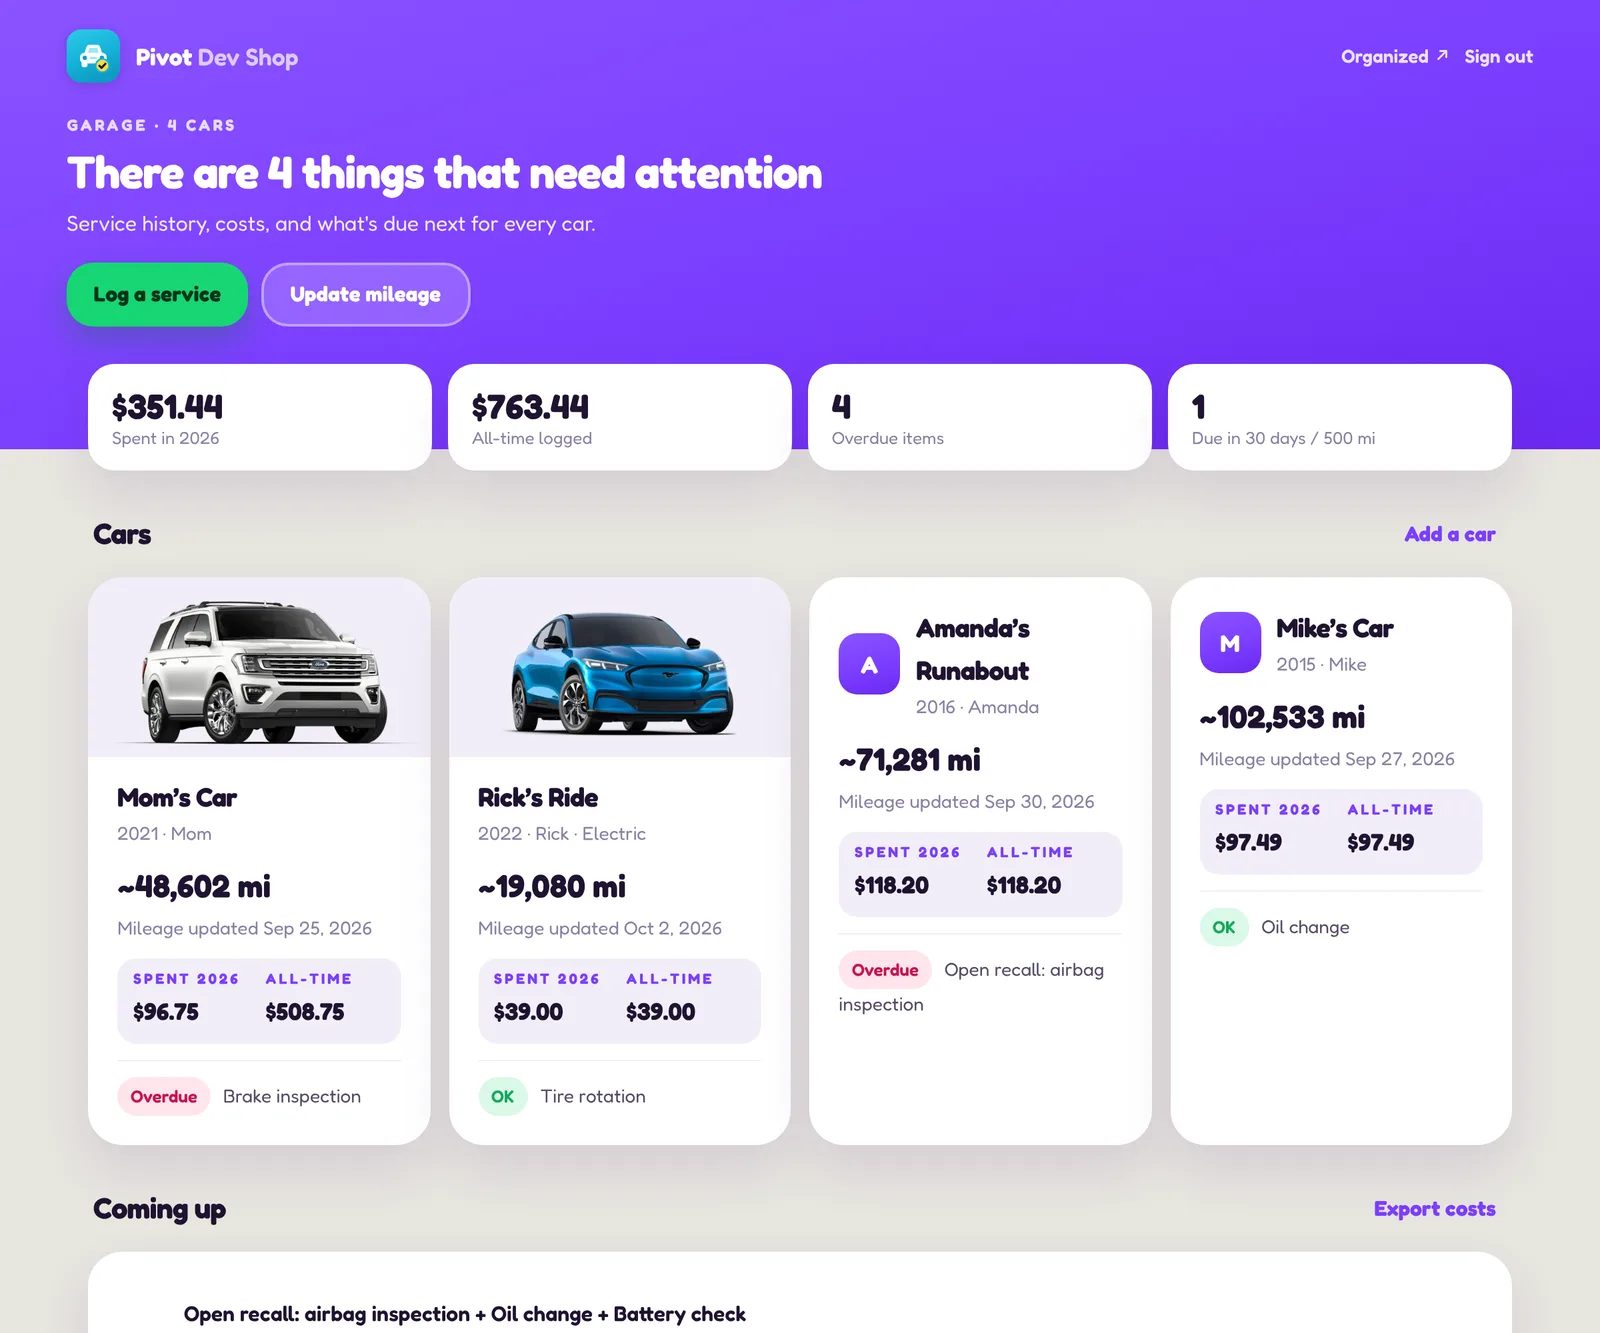
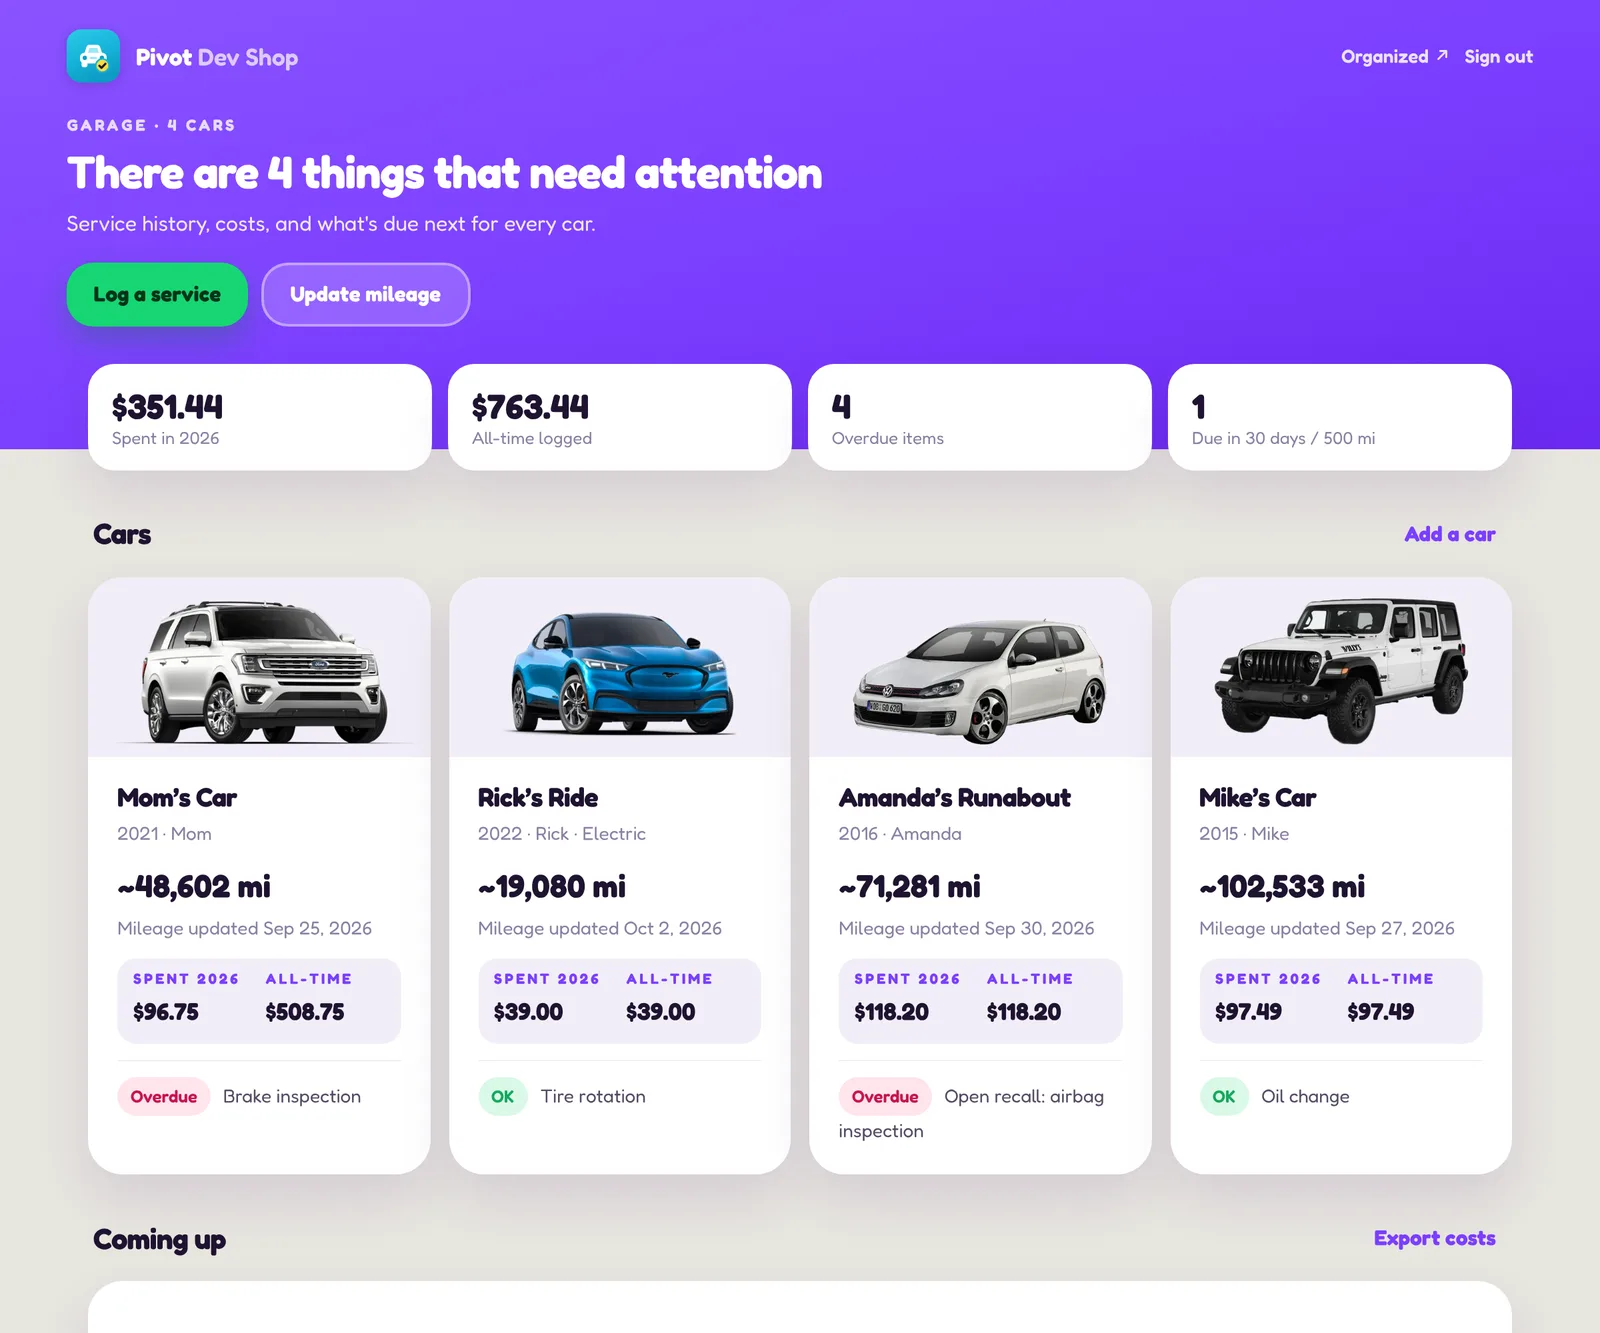
Garage page: add GTI and Wrangler photos to the example cars
Claude-Session: https://claude.ai/code/session_01TSc8yuq8NuKRMECWviNMfc

Changed region(s): [[0.0312, 0.7997, 0.9688, 1.0], [0.75, 0.4306, 0.9375, 0.7689], [0.5, 0.4614, 0.6875, 0.7689]]

diff --git a/public/garage.html b/public/garage.html
@@ -258,7 +258,7 @@
         <figcaption><strong>One car's reminders</strong>Every rule, when it was last done, and when it's next due — including an estimated date worked out from how much the car is driven.</figcaption>
       </figure>
       <figure class="shot wide">
-        <img src="/garage-media/home-desktop.webp" alt="Garage on a laptop: four example cars side by side — Mom’s Car and Rick’s Ride with photos of a Ford Expedition and a blue Mustang Mach-E — each showing mileage, spend this year and all-time, and the most urgent reminder, above a Coming up list." loading="lazy" width="1600" height="1333">
+        <img src="/garage-media/home-desktop.webp" alt="Garage on a laptop: four example cars side by side, each with a photo — a white Ford Expedition, a blue Mustang Mach-E, a white VW GTI and a white Jeep Wrangler — each showing mileage, spend this year and all-time, and the most urgent reminder, above a Coming up list." loading="lazy" width="1600" height="1333">
         <figcaption><strong>On a laptop</strong>The same app, wider: all four cars side by side — with a photo of each, so you know which is which at a glance — and a "Coming up" list that groups everything one car needs in the same month into a single trip to the shop.</figcaption>
       </figure>
     </div>

diff --git a/CLAUDE.md b/CLAUDE.md
@@ -248,9 +248,10 @@ app's own code with its Firebase calls swapped for stubs serving an invented
 household (example cars, drivers, companies, a sample bill marked as such, an
 `example.com` sign-in). No VINs, addresses, account numbers or real family names.
 The Garage cars are named Mom’s Car, Rick’s Ride, Amanda’s Runabout and Mike’s
-Car; the two with photos reuse the Garage app's own studio shots (white
-Expedition, blue Mach-E — `garage/public/photos/`), which are generic
-manufacturer-style images, not pictures of the family's cars. Keep it that way when refreshing them: re-run the apps against fake
+Car, each with a generic studio photo: the white Expedition and blue Mach-E
+reuse the Garage app's own (`garage/public/photos/`); the GTI and Wrangler were
+supplied by Braden and cut out onto transparency to match. None is a picture
+of the family's own cars. Keep it that way when refreshing them: re-run the apps against fake
 data, don't screenshot the live sites.
 
 ## Never mix literal values and a var() in the `font:` shorthand
